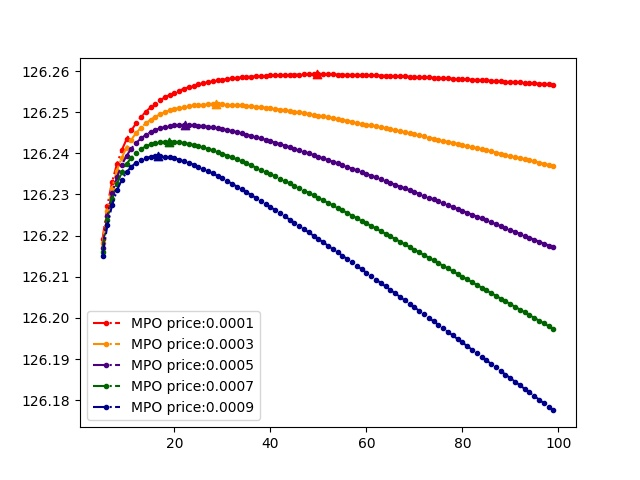
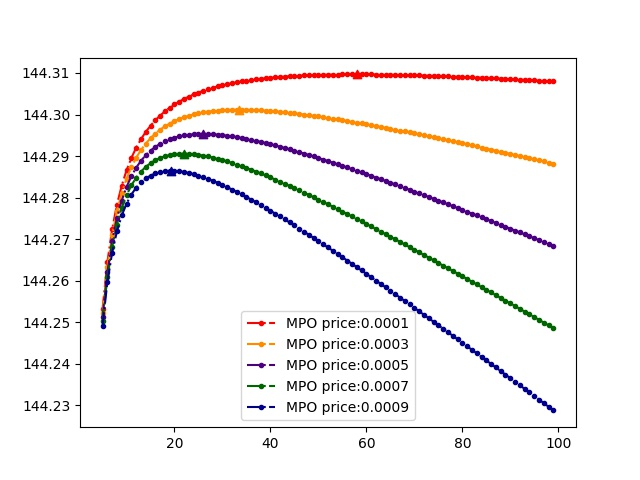
add num plot

diff --git a/simulation_code/asp.py b/simulation_code/asp.py
@@ -53,8 +53,10 @@ class ASP():
             util += (dev.price_per_task * (1 - ((dev.transmission_time_to_asp + self.process_time - ASP_DEVICE_LATENCY_LOWER) / (ASP_DEVICE_LATENCY_UPPER - ASP_DEVICE_LATENCY_LOWER))))
         self.utility = util - self.mpo_price * self.z_v
         return
+
     def time(self, z_v, z_h):
         return 1 / ((z_v - z_h) * self.service_rate - (self.arrival_rate - ASP_H(z_h)))
+
     def set_boundary(self):
         z_v = (self.arrival_rate + self.gamma)/self.service_rate
         z_h = self.chi * z_v
@@ -63,14 +65,14 @@ class ASP():
         for dev in self.device_list:
             util1 += (dev.price_per_task * (1 - ((dev.transmission_time_to_asp + self.time(z_v, z_h) - ASP_DEVICE_LATENCY_LOWER) / (ASP_DEVICE_LATENCY_UPPER - ASP_DEVICE_LATENCY_LOWER))))
             util2 += (dev.price_per_task * (1 - ((dev.transmission_time_to_asp + self.time(z_v, 0) - ASP_DEVICE_LATENCY_LOWER) / (ASP_DEVICE_LATENCY_UPPER - ASP_DEVICE_LATENCY_LOWER))))
-        self.rbound = util1/z_v
-        self.mbound = util2/z_v
-        self.lbound = self.total_payment / ((ASP_DEVICE_LATENCY_UPPER - ASP_DEVICE_LATENCY_LOWER) * ((1 - self.chi) * self.service_rate + self.chi * GLOBAL_ETA)) / (z_v - self.arrival_rate / ((1 - self.chi) * self.service_rate + self.chi * GLOBAL_ETA))**2
+        self.rbound = util1 / z_v
+        self.mbound = util2 / z_v
+        self.lbound = self.total_payment / ((ASP_DEVICE_LATENCY_UPPER - ASP_DEVICE_LATENCY_LOWER) * ((1 - self.chi) * self.service_rate + self.chi * GLOBAL_ETA)) / (z_v - self.arrival_rate / ((1 - self.chi) * self.service_rate + self.chi * GLOBAL_ETA)) ** 2
         return
 
     def set_process_time(self):
         self.process_time = 1 / ((self.z_v - self.z_h) * self.service_rate - (self.arrival_rate - ASP_H(self.z_h)))
-    
+
     def optimize_zv(self):
         if GLOBAL_ETA > self.service_rate:
             self.z_v = sqrt(self.total_payment / ((ASP_DEVICE_LATENCY_UPPER - ASP_DEVICE_LATENCY_LOWER) * self.mpo_price * ((1 - self.chi) * self.service_rate + self.chi * GLOBAL_ETA))) + self.arrival_rate / ((1 - self.chi) * self.service_rate + self.chi * GLOBAL_ETA)

diff --git a/simulation_code/mpo.py b/simulation_code/mpo.py
@@ -25,21 +25,23 @@ class MPO():
         for asp in self.asp_lst:
             tot += asp.z_v
         return tot
+
     def set_bd(self):
         for asp in self.asp_lst:
             asp.set_boundary()
-            if  asp.rbound > 1000 and asp.rbound < 7000:
+            if  asp.rbound > 0 and asp.rbound < 7000:
                 self.bd.append(asp.rbound)
-            if  asp.mbound > 1000 and asp.mbound < 7000:
+            if  asp.mbound > 0 and asp.mbound < 7000:
                 self.bd.append(asp.mbound)
 
         return
     def optimize_phi(self):
-        phi = 1000
-        step = 6
+        phi = 700
+        step = 7
         pr = []
         ut = []
         bound = []
+        num = []
         for _ in range(1000):
             self.set_price_per_vm(phi)
             for asp in self.asp_lst:
@@ -52,6 +54,7 @@ class MPO():
             # vm_after = self.total_vm()
             pr.append(phi)
             ut.append(phi * vm_prior - MPO_cost(vm_prior))
+            num.append(vm_prior)
             phi += step
             # print(vm_after)
             # if ((vm_prior * phi) - (vm_after * (phi + step))) <= 0:
@@ -61,8 +64,15 @@ class MPO():
             #     break
         #self.setbd()
         self.set_bd()
-        z1 = [0] * len(self.bd)
+
+        plt.figure(figsize=(40, 32))
         plt.plot(pr, ut, marker='.', linestyle='-.')
-        plt.scatter(self.bd, z1, marker='.', color ='red')
+        plt.vlines(self.bd, ymin=0, ymax=max(ut), linestyle='-', color ='red')
         plt.savefig('./utility.jpg')
+        plt.close()
+
+        plt.figure(figsize=(40, 32))
+        plt.plot(pr, num, marker='.', linestyle='-.')
+        plt.vlines(self.bd, ymin=0, ymax=max(num), linestyle='-', color ='red')
+        plt.savefig('./vm_number.jpg')
         plt.close()
